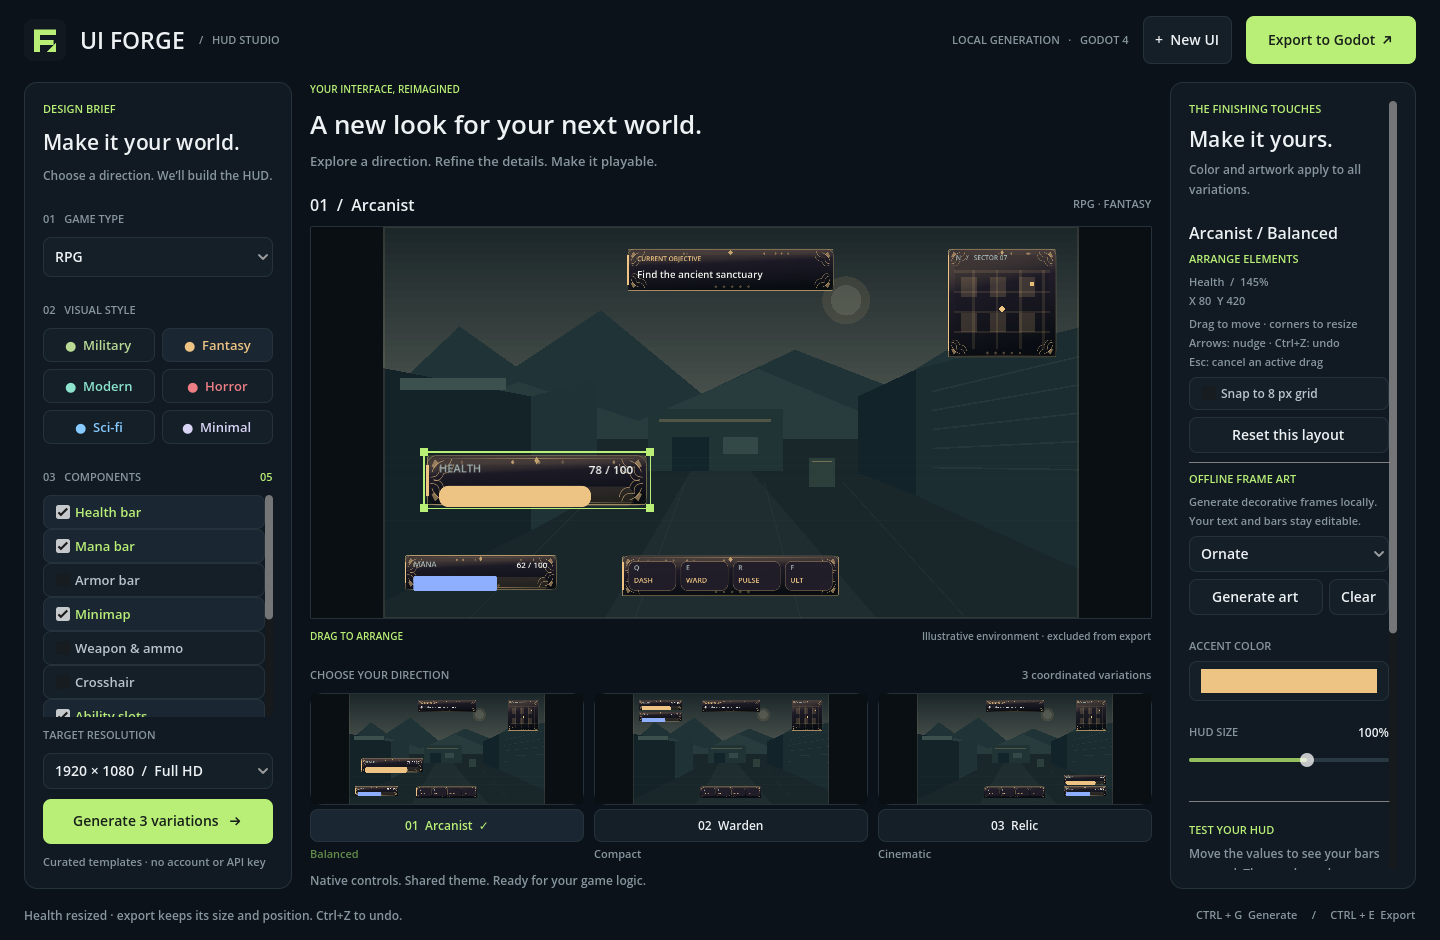
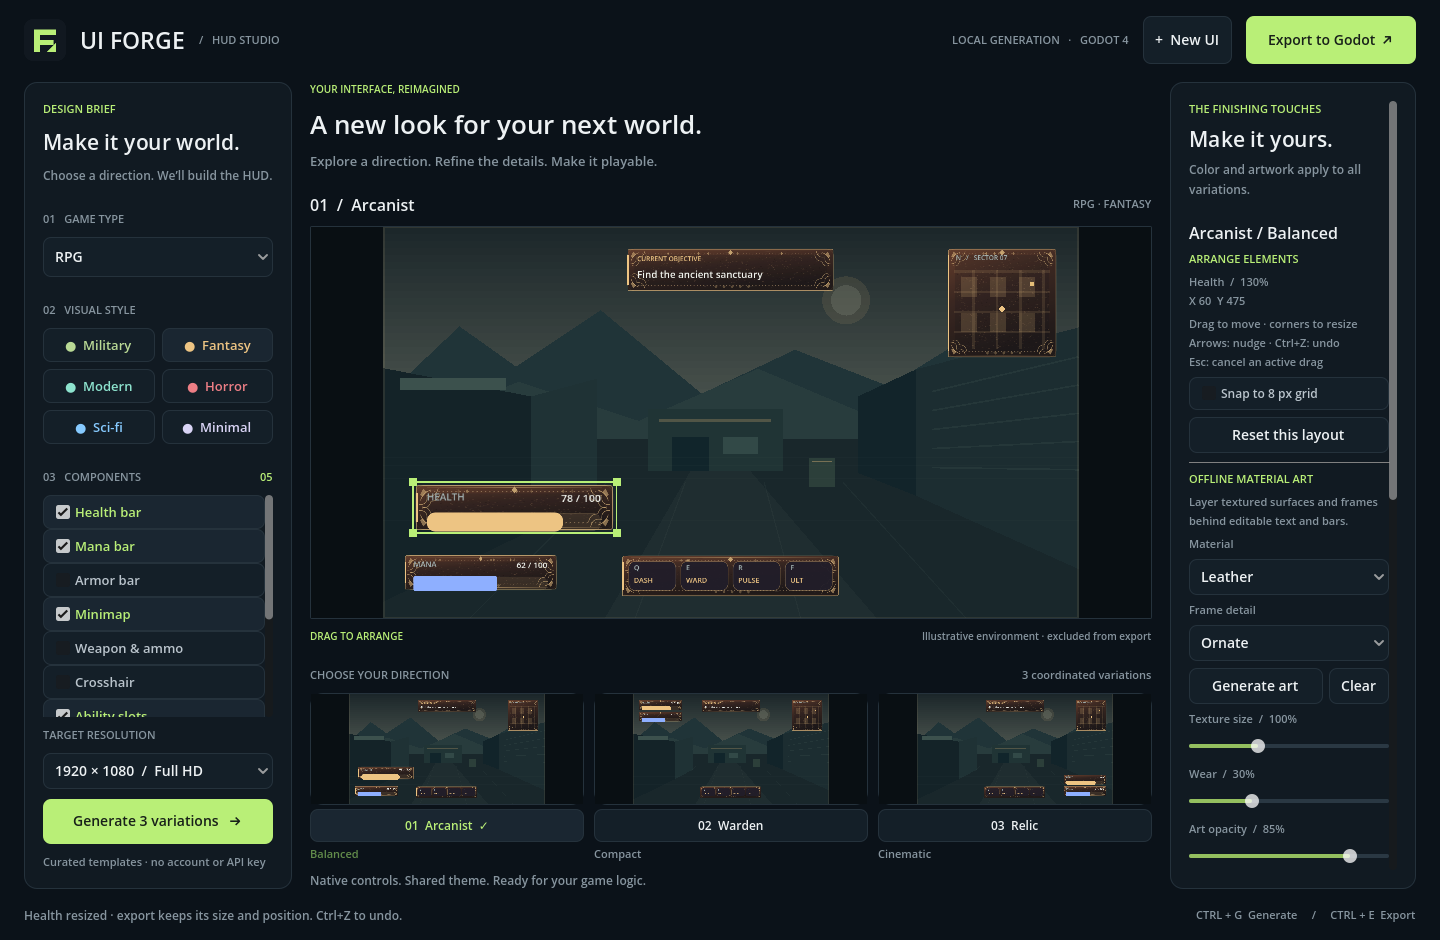
Add advanced offline material textures and generation controls

diff --git a/scripts/package_windows.py b/scripts/package_windows.py
@@ -50,9 +50,10 @@ CREATE YOUR FIRST HUD
    its own positions.
    Drag a selected component's corner handles to rescale it proportionally.
    Resizing supports undo/redo; Esc cancels an unfinished move or resize.
-7. Under Offline Frame Art, choose a detail and click Generate art for new
-   procedural panel frames. Scroll the right panel to reach its tools. Clear
-   removes artwork while preserving positions. No AI service or key is needed.
+7. Under Offline Material Art, choose a material and frame, then click Generate
+   art. Adjust texture size, wear, and opacity. New beside Seed generates a fresh
+   pattern; entering a seed reproduces it with matching settings. Scroll the right
+   panel to reach its tools. Clear keeps positions/scales. No service or key needed.
 
 Changing genre, style, components, or resolution requires Generate to apply.
 Generate resets color, size, sample values, component positions/scales, and artwork. Apply those
@@ -181,7 +182,7 @@ def main() -> int:
         (package / "README.txt").write_text(GUIDE, encoding="utf-8")
         guides = (
             "README.md", "docs/windows-guide.md", "docs/godot-guide.md",
-            "docs/development.md", "docs/examples/health_demo.gd", "docs/screenshot.png",
+            "docs/development.md", "docs/examples/health_demo.gd", "docs/screenshot.png", "docs/materials.png",
         )
         for relative in guides:
             destination = package / relative

diff --git a/docs/windows-guide.md b/docs/windows-guide.md
@@ -75,7 +75,7 @@ extracted folder. Keep the whole app folder together when moving it.
 | Three thumbnails below the preview | Balanced, Compact, and Cinematic layout options |
 | **The Finishing Touches**, on the right | Accent color, HUD size, and example health/mana values |
 | **Arrange Elements**, in the right panel | Selected component coordinates, grid snapping, and layout reset |
-| **Offline Frame Art**, in the right panel | Procedural artwork detail and Generate art / Clear buttons |
+| **Offline Material Art**, in the right panel | Surface material, frame detail, texture size, wear, opacity, and seed |
 | **New UI**, at the top | Resets the brief and customizations to the initial FPS/Military design |
 | **Export to Godot**, at the top | Saves the selected design into a new folder |
 | Status line, at the bottom | Generation messages, export location, and errors |
@@ -148,21 +148,35 @@ variations keeps their edits. Changing color or frame artwork keeps custom
 positions and scales; the exported scene uses the same arrangement. Thumbnails
 select variations; dragging is enabled in the large preview.
 
-### Generate decorative artwork offline
+### Generate textured artwork offline
 
-1. Scroll the right-hand panel to **Offline Frame Art**.
-2. Choose **Style native**, **Ornate**, **Tech**, or **Weathered**.
-   Style native chooses details for the current visual style: for example,
-   filigree for Fantasy or technical borders for Sci-fi.
-3. Click **Generate art**. Frames appear behind the text and progress bars in
-   all three variations. Each click creates a new random seed.
-4. Change the accent color to recolor the frames while keeping the same seed.
-5. Click **Clear** to remove artwork and keep your custom positions.
+1. Scroll the right-hand panel to **Offline Material Art**.
+2. Choose a **Material**: brushed metal, leather, stone, wood, glass, carbon
+   fiber, or parchment. **Style native** selects a suitable material automatically:
+   metal for Military, leather for Fantasy, stone for Horror, glass for Modern
+   and Minimal, and carbon fiber for Sci-fi.
+3. Choose a separate **Frame detail**: Style native, Ornate, Tech, Weathered,
+   or Clean. Try Leather + Ornate for Fantasy, or Carbon fiber + Tech for Sci-fi.
+4. Click **Generate art**. Textured panels appear in all three variations.
+5. Adjust **Texture size** (50–200%) for finer or larger grain, **Wear** for
+   additional edge chips and scratches, and **Art opacity** for subtler or stronger
+   surfaces. Material controls update existing artwork automatically after a short
+   pause. Text and gameplay bars remain independently editable.
+6. Click **New** beside **Seed** to generate a fresh pattern. To reproduce a
+   design, enter the same integer seed and use the same material, frame, size,
+   wear, accent, visual style, and layout. Components receive coordinated but
+   distinct patterns. **Generate art** uses the displayed seed.
+7. Change the accent color to recolor the frame. Click **Clear** to remove all
+   artwork while keeping your custom positions and scales.
+
+![Procedural material examples](materials.png)
 
 Artwork is generated procedurally on your PC, without an AI service, account,
 or API key. It decorates panel components; the crosshair keeps its native shapes.
-Labels and bars stay editable, and exports include separate PNG files for the
-frames. Layout undo/redo applies to moving and resizing, not artwork changes.
+Exports include a separate PNG for each panel at twice its base dimensions,
+and `preset.json` records the material settings and seed. Copy the `art/` folder
+with the scene. Layout undo/redo applies to moving and resizing; it does not
+undo artwork changes. Export your design before starting another one.
 
 Changing game type, style, components, or resolution leaves a **Changes pending**
 message. Click **Generate** to apply those changes. Generate resets accent,

diff --git a/README.md b/README.md
@@ -42,8 +42,9 @@ project rather than a ready-to-run Windows executable.
 6. Drag components in the large preview to arrange them, then drag a selected
    component's corner handles to rescale it. Optional snapping, keyboard
    nudging, undo/redo, and **Reset this layout** help refine placement.
-7. In **Offline Frame Art** on the right, choose a detail style and click
-   **Generate art** for decorative panel artwork. Scroll the right panel if needed.
+7. In **Offline Material Art** on the right, choose a material and frame detail,
+   then click **Generate art**. Adjust texture size, wear, and opacity; **New**
+   beside the seed generates another surface. Scroll the right panel if needed.
 8. Click **Export to Godot** and select an existing folder to save into.
 
 The app creates a new folder containing `hud.tscn`, `hud_theme.tres`,
@@ -61,7 +62,9 @@ The exported scene keeps your custom element positions and individual scales.
 - Mouse placement and proportional corner resizing per variation, optional
   8 px snapping, arrow-key nudging,
   undo/redo, and preset layout reset.
-- Offline, seeded frame artwork with style-native, ornate, tech, and weathered details.
+- Seven offline materials: brushed metal, leather, stone, wood, glass, carbon
+  fiber, and parchment. Combine them with ornate, tech, weathered, or clean frames.
+- Adjustable texture size, wear, opacity, and repeatable seeds; portable PNG exports.
 - Editable native Godot controls and a shared theme, with no generator plugin
   required in your game.
 
@@ -69,6 +72,8 @@ Generation uses local templates. The map, ammo, timers, and ability slots use
 example data; connect them to your game logic. The preview background is not
 included in the exported HUD. Artwork is generated procedurally on your PC;
 it does not use an AI image service or require a key.
+
+![Generated material surfaces](docs/materials.png)
 
 Designs are held in memory. **Export before closing the app or clicking New UI.**
 Changing the brief requires Generate to apply; Generate resets the current

diff --git a/docs/godot-guide.md b/docs/godot-guide.md
@@ -238,8 +238,8 @@ HUD
 | Move a component | Edit its Control position in the exported `hud.tscn`, or override the child in your game scene. |
 | Update health or mana | Set its ProgressBar's `value`/`max_value` and update its `Amount` Label. |
 | Make a real minimap | Replace sample nodes in `Minimap/MapContent` with your map or camera-driven UI. |
-| Replace a generated frame | Select the component's `Art` TextureRect and change **Texture**, or edit its PNG under the export's `art/` folder. |
-| Change frame opacity | Select its `Art` TextureRect and change **Modulate** alpha under CanvasItem visibility. |
+| Replace a generated material/frame | Select the component's `Art` TextureRect and change **Texture**, or edit its PNG under the export's `art/` folder. The surface and frame are composited in one PNG; labels and bars stay separate. |
+| Change material opacity | Select its `Art` TextureRect and change **Modulate** alpha under CanvasItem visibility. |
 
 These paths are relative to **Elements**. Only selected components exist:
 

diff --git a/docs/development.md b/docs/development.md
@@ -24,8 +24,10 @@ Headless checks do not validate a physical desktop or GPU.
 
 The suite also injects viewport mouse/key events for dragging, clamping,
 snapping, variant isolation, nudging, and undo/redo; rasterizes every artwork
-style/detail combination; and imports a moved, textured HUD into an independent
-game project. Generated frame PNGs use relative paths and need Godot's normal
+style/detail combination; checks all seven materials, seed reproducibility after
+cache eviction, texture size/wear changes, and live inspector updates; and imports
+a moved, textured HUD into an independent game project. Exported PNG pixels are
+compared with the preview. Generated material PNGs use relative paths and need Godot's normal
 image import before running a copied scene.
 
 In a cloud shell with a read-only home directory, initialize writable runtime
